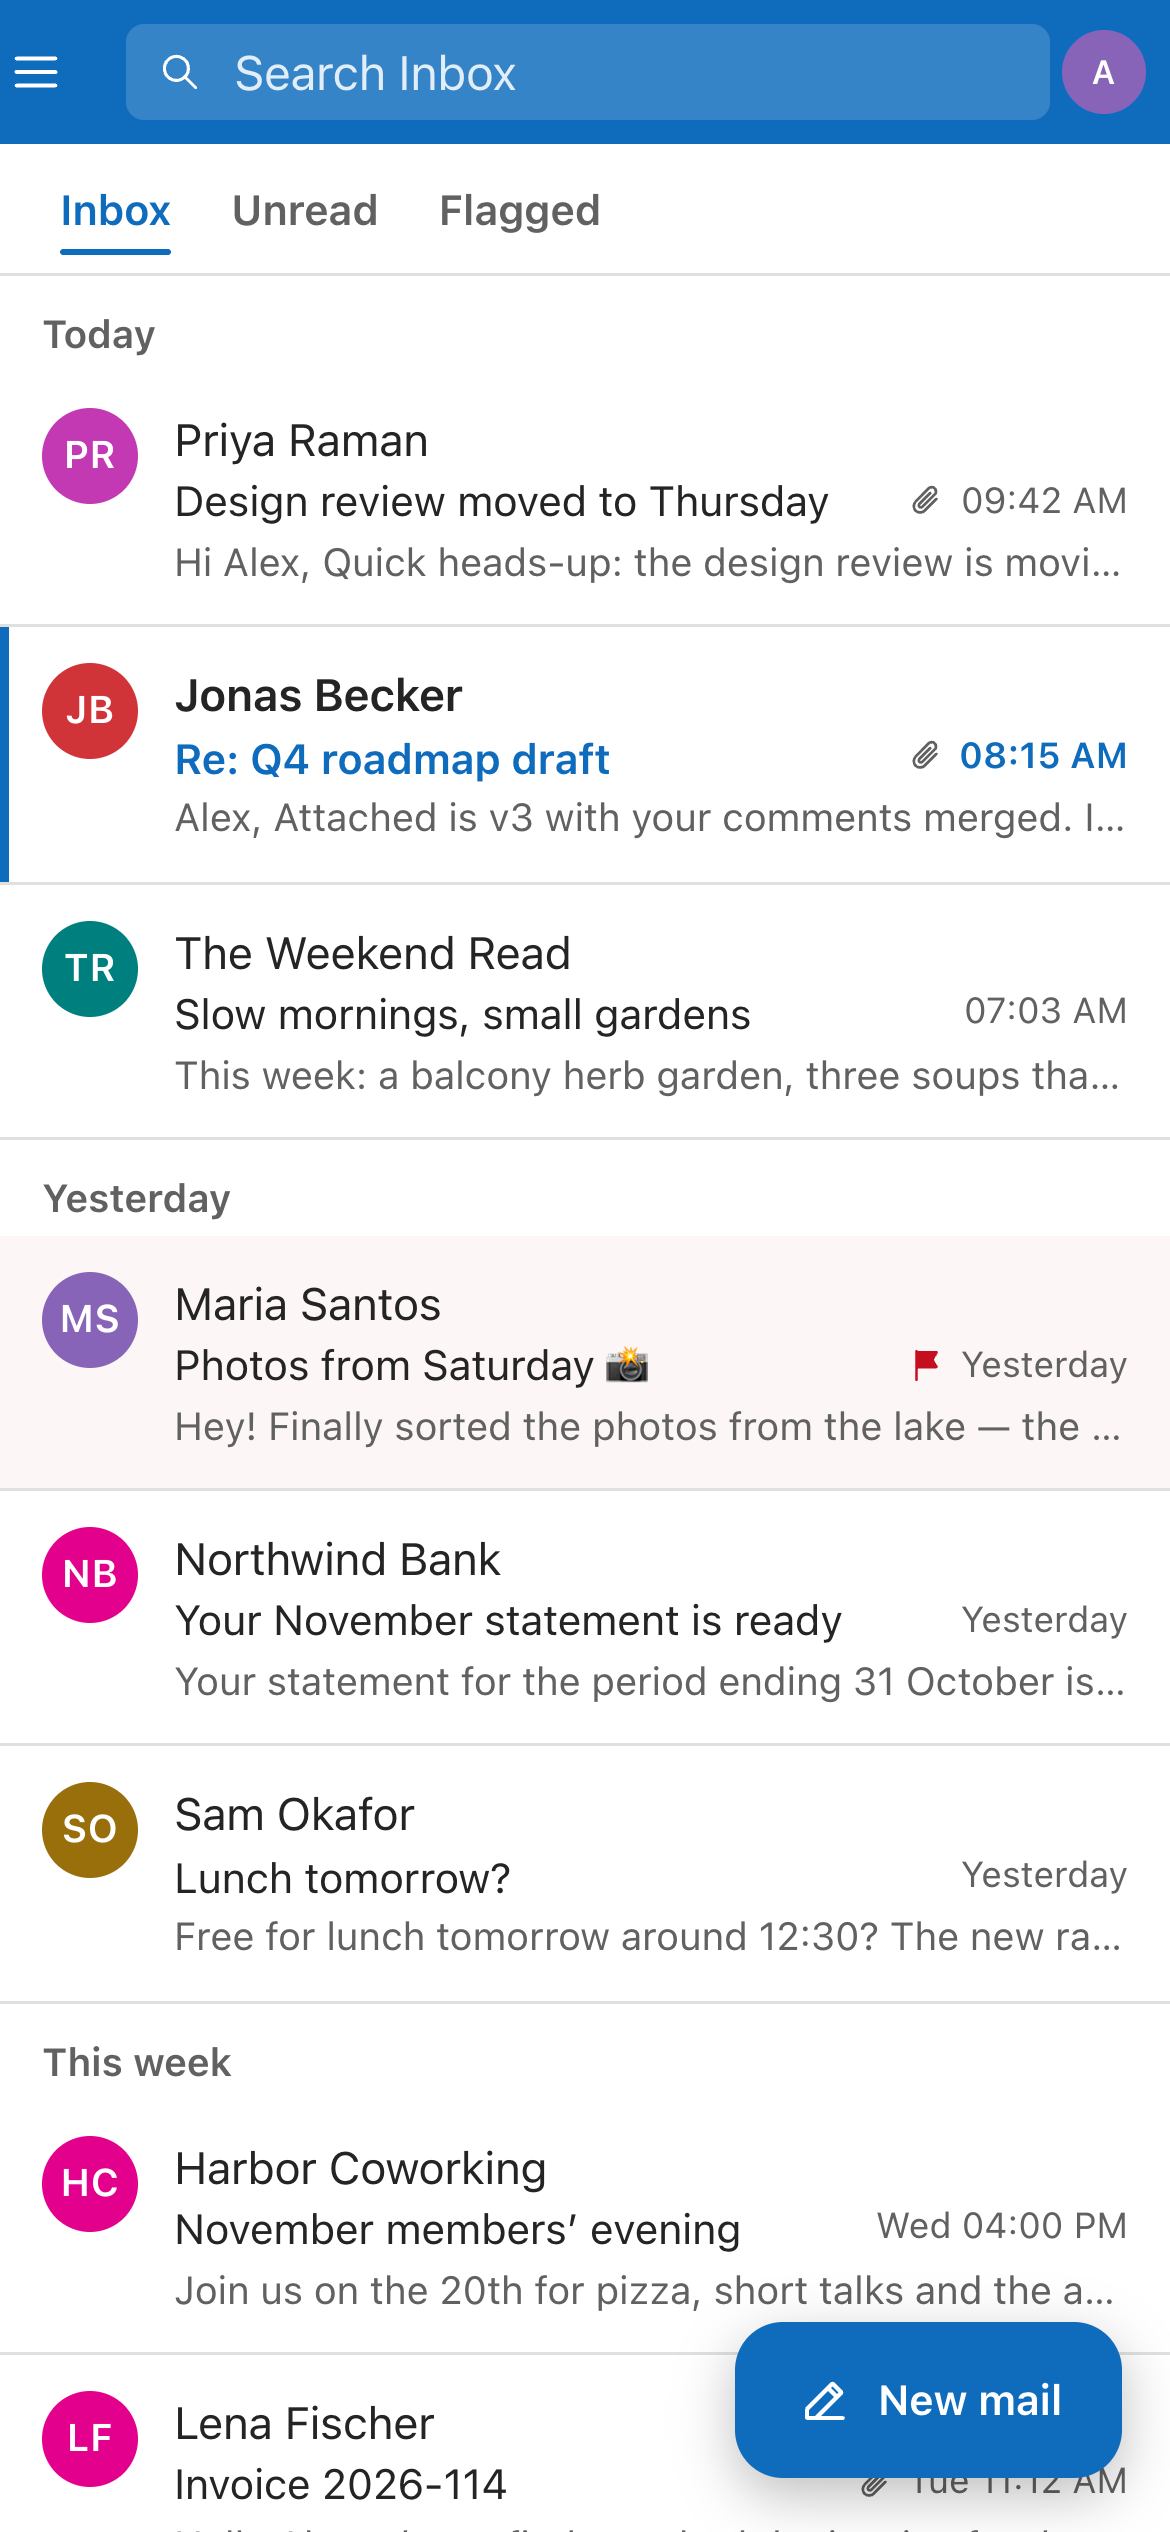
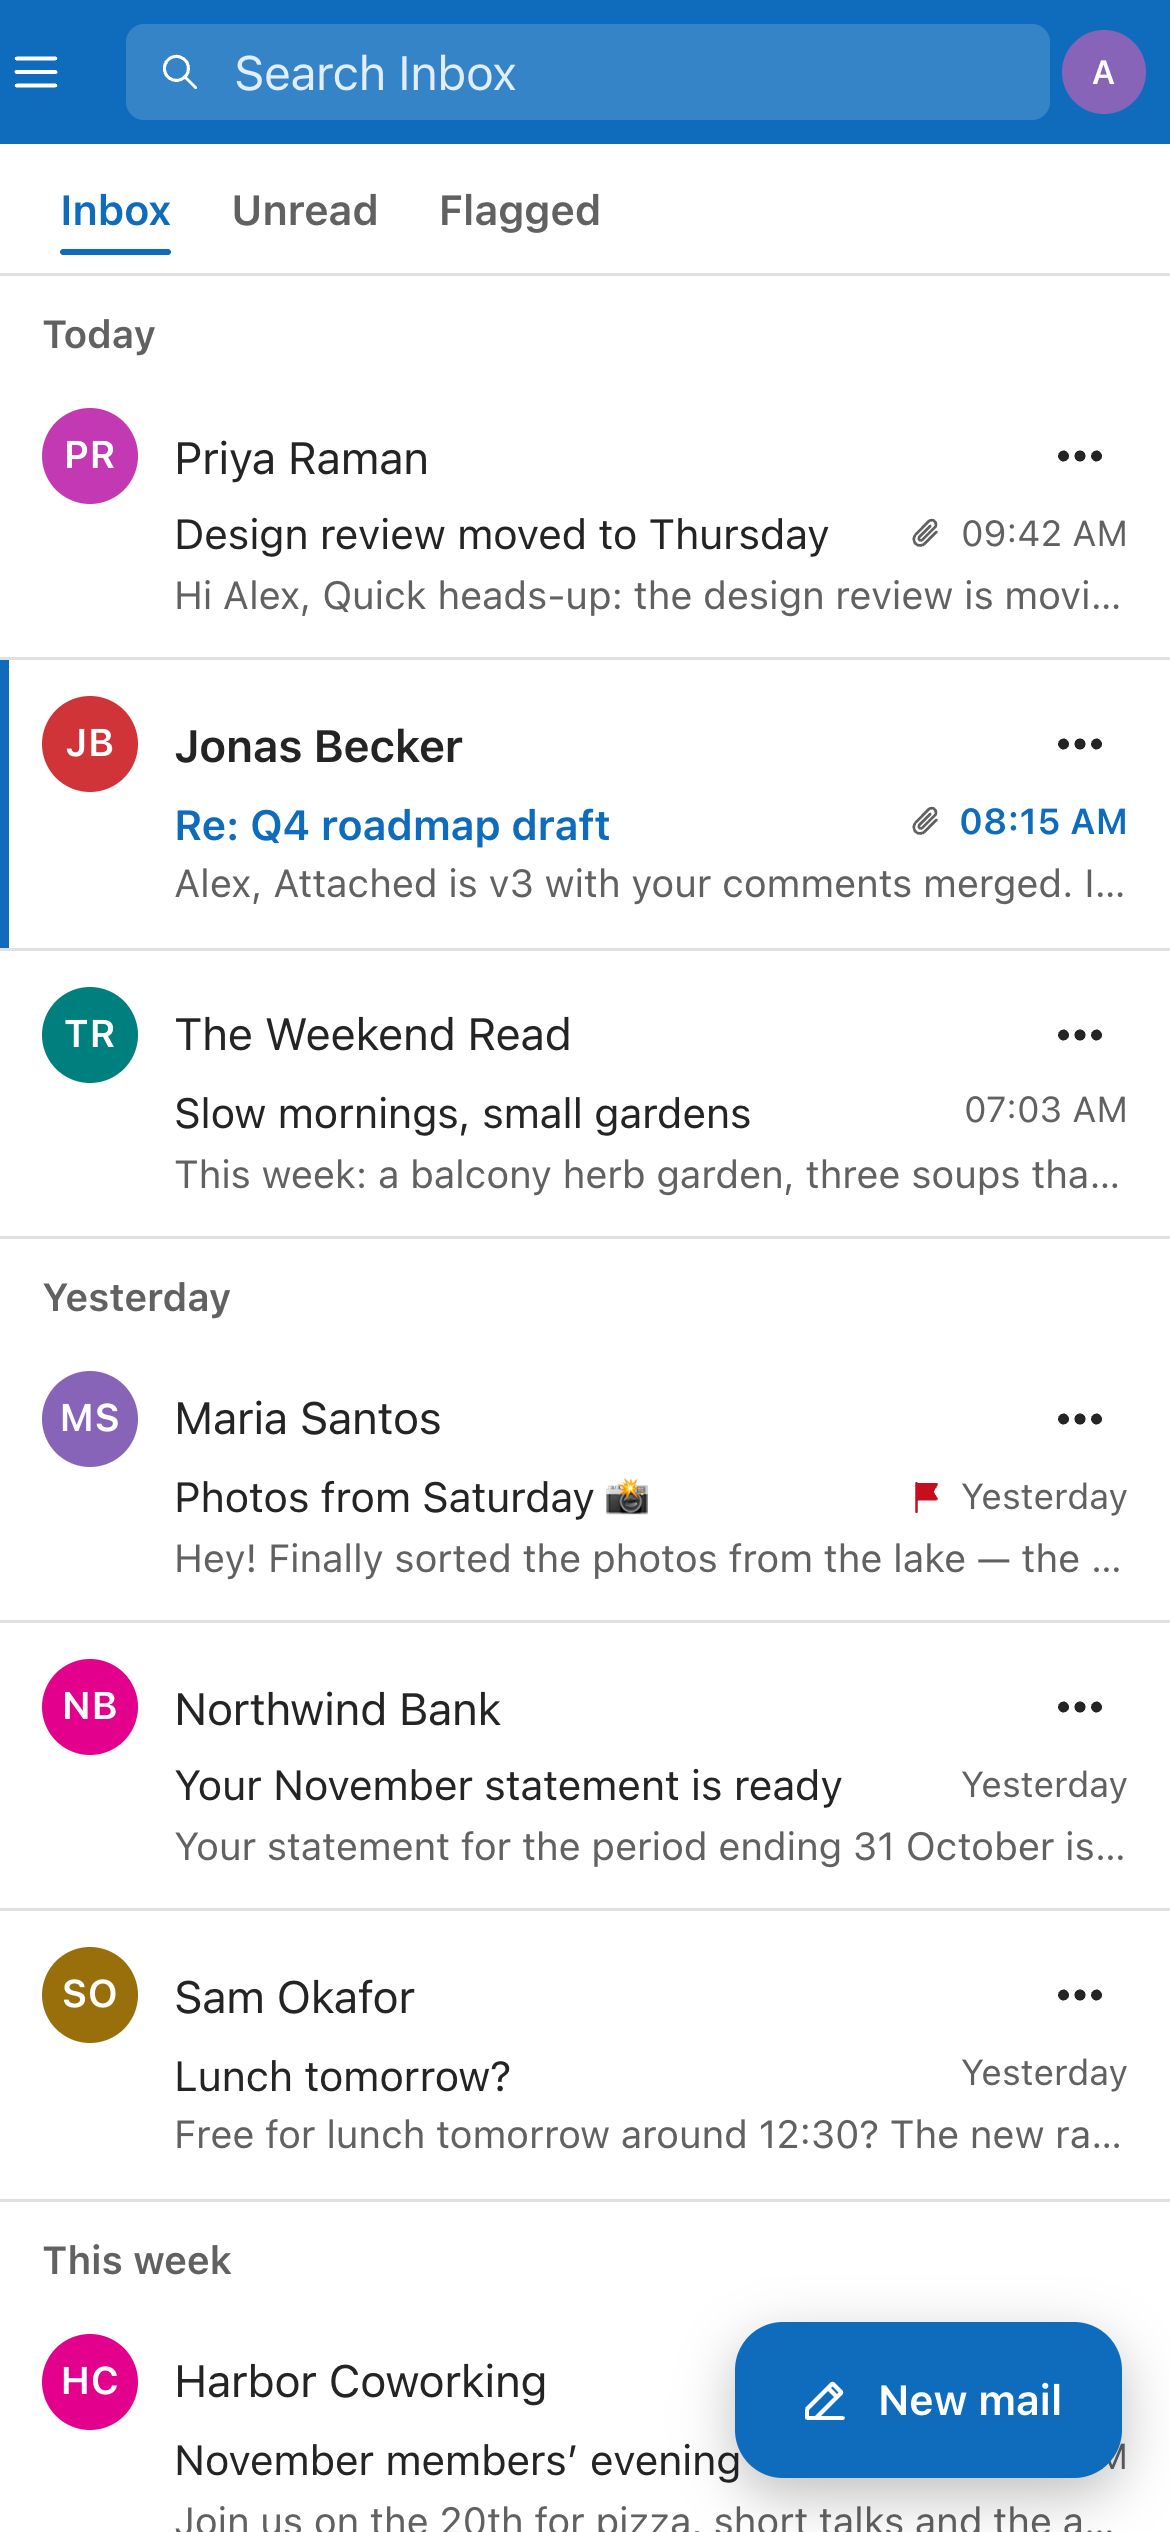
New and more README screenshots
Folders menu, rules, rule editor, composer with templates, S/MIME message and
settings, sign-in security, phone folder drawer. The demo setup gained a fake
ManageSieve server and turns the features on.

diff --git a/web/src/styles.css b/web/src/styles.css
@@ -596,3 +596,4 @@ body.resizing iframe, body.resizing-h iframe { pointer-events: none; }
 .tpl-menu { min-width: 230px; max-width: 320px; top: 38px; left: 0; z-index: 40; }
 .tpl-menu .sep-line { height: 1px; background: var(--border); margin: 4px 0; }
 .tpl-menu button { white-space: normal; }
+a.pill-btn { color: var(--text); display: inline-flex; align-items: center; }

diff --git a/README.md b/README.md
@@ -8,8 +8,16 @@ three-pane UI: folder tree, date-grouped message list with previews, reading pan
 | Dark mode, remote images blocked | Calendar — week view |
 |---|---|
 | ![Dark mode with a newsletter; tracking image blocked](docs/screenshots/mail-dark.png) | ![Calendar week view](docs/screenshots/calendar.png) |
-| **Address book** | **On a phone** |
-| ![Address book](docs/screenshots/contacts.png) | <img src="docs/screenshots/phone-list.png" alt="Message list on a phone" width="49%"> <img src="docs/screenshots/phone-message.png" alt="Reading a message on a phone" width="49%"> |
+| **Folders** — ⋯ menu, subfolders, drag and drop | **Mail rules** — run on the server |
+| ![Folder menu with new subfolder, rename and delete](docs/screenshots/folders.png) | ![Mail rules list](docs/screenshots/rules.png) |
+| **Create a rule from any message** | **Composer** — signature and templates |
+| ![Rule editor pre-filled from a message](docs/screenshots/rule-editor.png) | ![Composer with signature and the templates menu](docs/screenshots/compose.png) |
+| **S/MIME** — signed and encrypted message | **S/MIME settings** — certificate, CA, correspondents |
+| ![An encrypted, signed and verified message](docs/screenshots/smime.png) | ![Secure mail settings](docs/screenshots/smime-settings.png) |
+| **Sign-in security** — password, 2-step, passkeys, reset address | **Address book** |
+| ![Sign-in security dialog](docs/screenshots/security.png) | ![Address book](docs/screenshots/contacts.png) |
+| **On a phone** | **Phone — folder drawer with ⋯ buttons** |
+| <img src="docs/screenshots/phone-list.png" alt="Message list on a phone" width="49%"> <img src="docs/screenshots/phone-message.png" alt="Reading a message on a phone" width="49%"> | <img src="docs/screenshots/phone-menu.png" alt="Folder drawer on a phone" width="60%"> |
 
 <sub>Screenshots use invented demo data — see [scripts/screenshots](scripts/screenshots).</sub>
 

diff --git a/scripts/screenshots/README.md b/scripts/screenshots/README.md
@@ -1,12 +1,17 @@
 # README screenshots
 
-Regenerates `docs/screenshots/` from a fake IMAP/SMTP server filled with invented demo mail,
-contacts and calendar events (all names and addresses are made up, `example.*` domains).
+Regenerates `docs/screenshots/` from a fake IMAP/SMTP/ManageSieve server filled with invented demo mail,
+contacts and calendar events (all names and addresses are made up, `example.*` domains). The demo config turns on
+rules, signatures, password change / reset, and S/MIME so those screens can be captured too.
 
 ```bash
 cd scripts/screenshots && npm install
-npm run demo &                                   # fake IMAP :1143 + SMTP :1025, login alex / demo
+npm run demo &                                   # fake IMAP :1143 + SMTP :1025 + ManageSieve :4190, login alex / demo
 (cd ../.. && npm run build && NODE_ENV=production GOODMAIL_INSECURE_COOKIE=true PORT=3100 \
+  GOODMAIL_OPENSSL=/opt/homebrew/bin/openssl \
   GOODMAIL_CONFIG=scripts/screenshots/demo.conf GOODMAIL_DATA=$(mktemp -d) node dist-server/index.mjs) &
 npm run capture                                  # uses the installed Google Chrome, headless
 ```
+
+`GOODMAIL_OPENSSL` is needed on macOS (the system openssl is LibreSSL); Linux can omit it. Start from a fresh `GOODMAIL_DATA`
+and a fresh `npm run demo` each time — the run creates a certificate and sends a message to itself.
